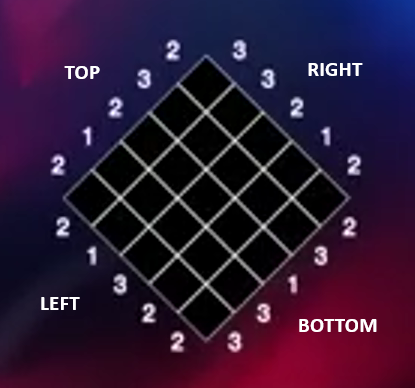
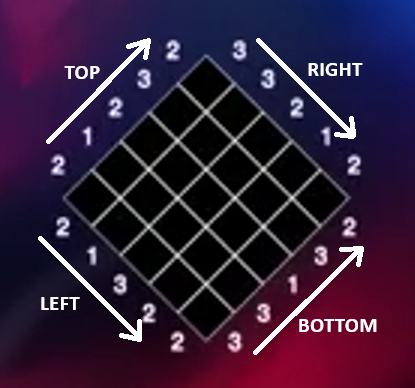
Made some changes.

diff --git a/index.html b/index.html
@@ -37,6 +37,8 @@
             white-space: pre-wrap;
             font-family: monospace;
             font-size: 2rem;
+            transform: rotate(-45deg);
+            margin: auto;
         }
         
         #gridSize {
@@ -87,22 +89,23 @@
                 <label for="gridSize">Grid Size N (e.g., 5 for 5x5):</label>
                 <input type="number" id="gridSize" min="1" required value="3"><br>
 
-                <label for="topClues">Top Clues (space-separated numbers):</label>
+                <label for="topClues">TOP Clues (space-separated numbers):</label>
                 <input type="text" id="topClues" required><br>
 
-                <label for="bottomClues">Bottom Clues (space-separated numbers):</label>
-                <input type="text" id="bottomClues" required><br>
+                <label for="rightClues">RIGHT Clues (space-separated numbers):</label>
+                <input type="text" id="rightClues" required><br>
 
-                <label for="leftClues">Left Clues (space-separated numbers):</label>
+                <label for="leftClues">LEFT Clues (space-separated numbers):</label>
                 <input type="text" id="leftClues" required><br>
 
-                <label for="rightClues">Right Clues (space-separated numbers):</label>
-                <input type="text" id="rightClues" required><br>
+                <label for="bottomClues">BOTTOM Clues (space-separated numbers):</label>
+                <input type="text" id="bottomClues" required><br>
 
                 <button type="submit">Solve Puzzle</button>
             </form>
             <img src="./sample-box.png" />
         </div>
+        <div id="result"></div>
         <div id="output"></div>
     </div>
 
@@ -250,11 +253,12 @@
 
             // Solve the puzzle
             if (solve(grid, 0, topClues, bottomClues, leftClues, rightClues)) {
-                let output = "Solution found:\n";
+                let output = "";
                 grid.forEach(row => output += row.join(' ') + '\n');
+                document.getElementById('result').textContent = "Solution found:";
                 document.getElementById('output').textContent = output;
             } else {
-                document.getElementById('output').textContent = "No solution found.";
+                document.getElementById('result').textContent = "No solution found.";
             }
         });
     </script>
